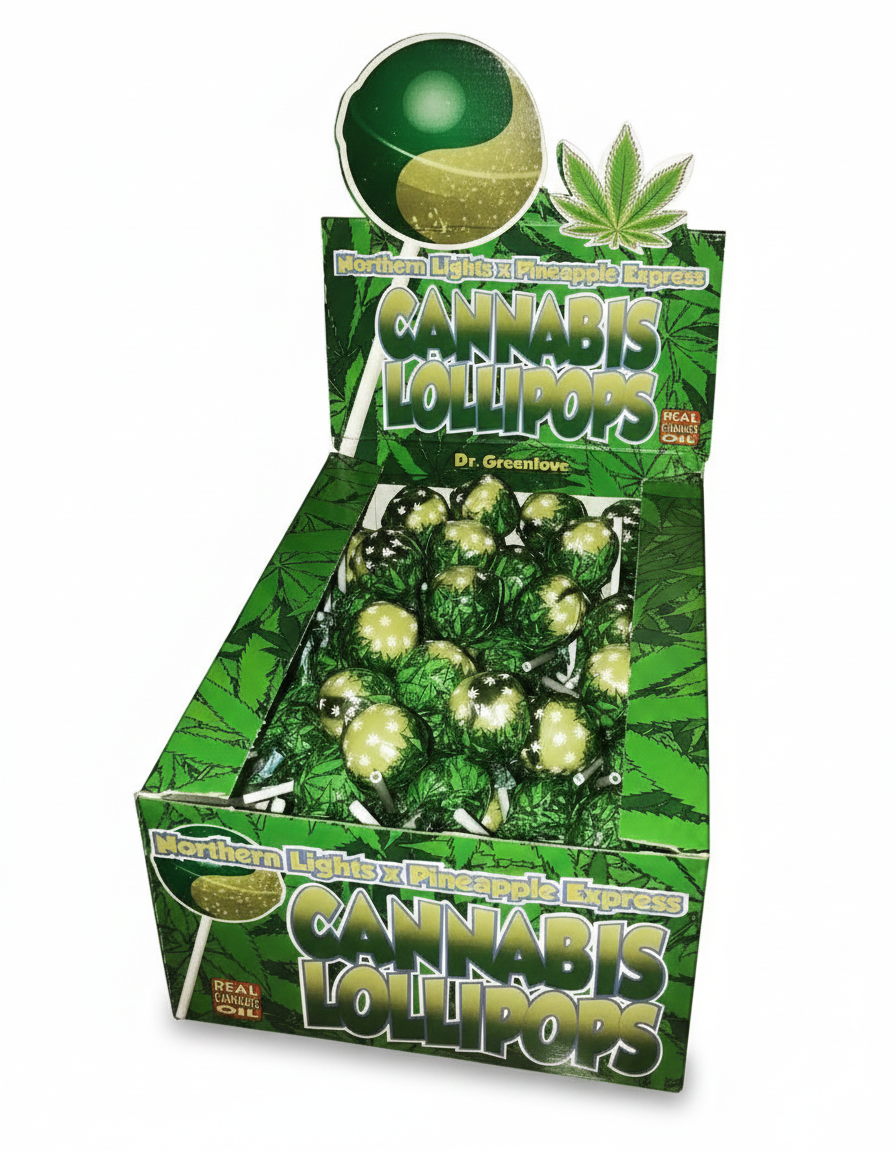
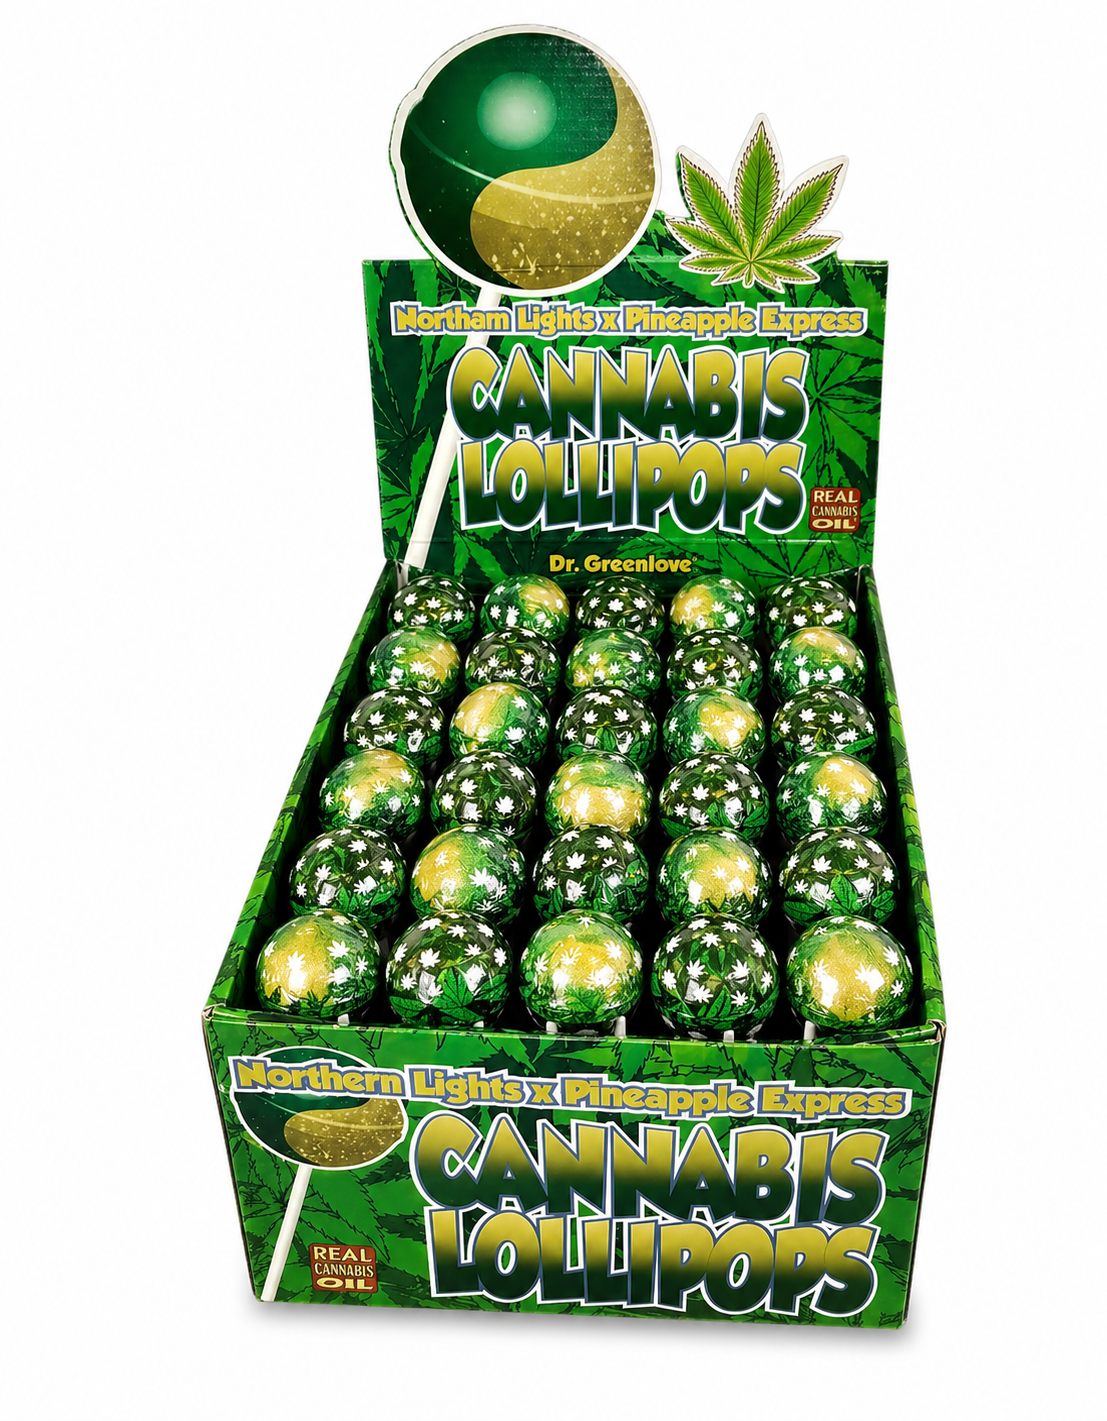
Changes

diff --git a/src/data/products.ts b/src/data/products.ts
@@ -7898,7 +7898,7 @@ export const products: Product[] = [
     description: "Cannabis Lollipops Northern Lights x Pineapple Express é o pirulito artesanal da Dr. Greenlove Amsterdam que une o sabor doce e tropical do abacaxi com o toque herbal e relaxante da Northern Lights. Cada pirulito traz uma experiência saborosa, discreta e prática, perfeita pra quem curte um docinho com vibe canábica sem precisar fumar. Embalagem individual, ideal pra levar pra qualquer rolê e curtir aquela brisa leve com gostinho de festa.",
     details: [
       "Tipo: Pirulito Cannabis",
-      "Quantidade: 50 unidades",
+      "Quantidade: 30 unidades",
       "Sabor: Northern Lights x Pineapple Express",
       "Notas: Abacaxi tropical, toque herbal canábico",
       "Formato: Pirulito individual",
